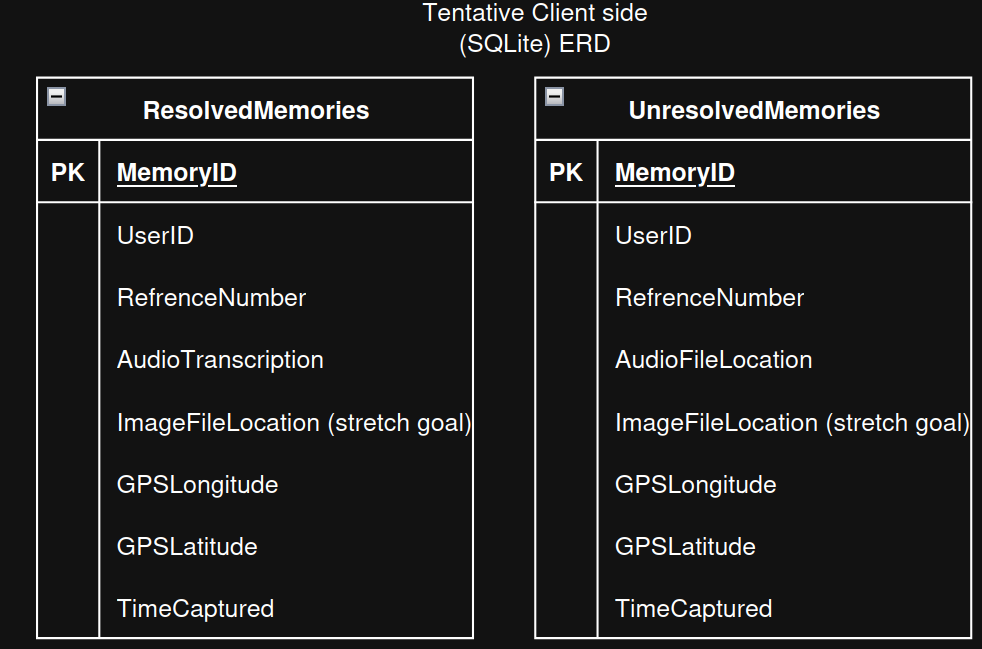
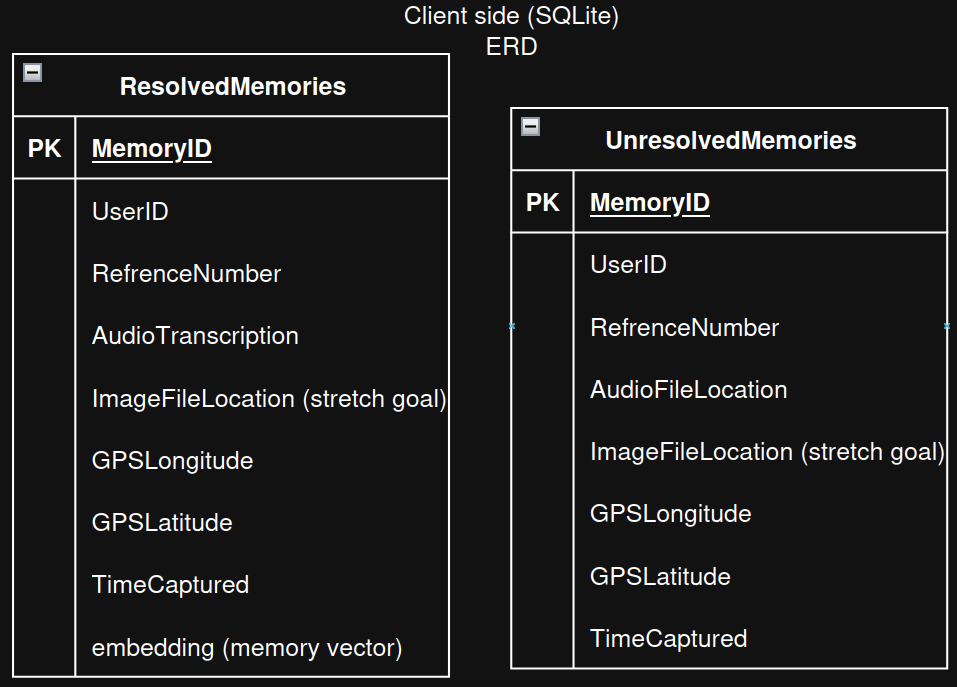
feat(database): added vectors to database, and adjusted docs

Changed region(s): [[0.0, 0.0, 1.0, 1.0]]

diff --git a/backend-local/db/init-sqlite.js b/backend-local/db/init-sqlite.js
@@ -22,7 +22,8 @@ db.exec(`
       ImageFileLocation TEXT,
       GPSLongitude REAL,
       GPSLatitude REAL,
-      TimeCaptured TEXT
+      TimeCaptured TEXT,
+      Embedding TEXT
   );
 
   CREATE TABLE IF NOT EXISTS UnresolvedMemories (
